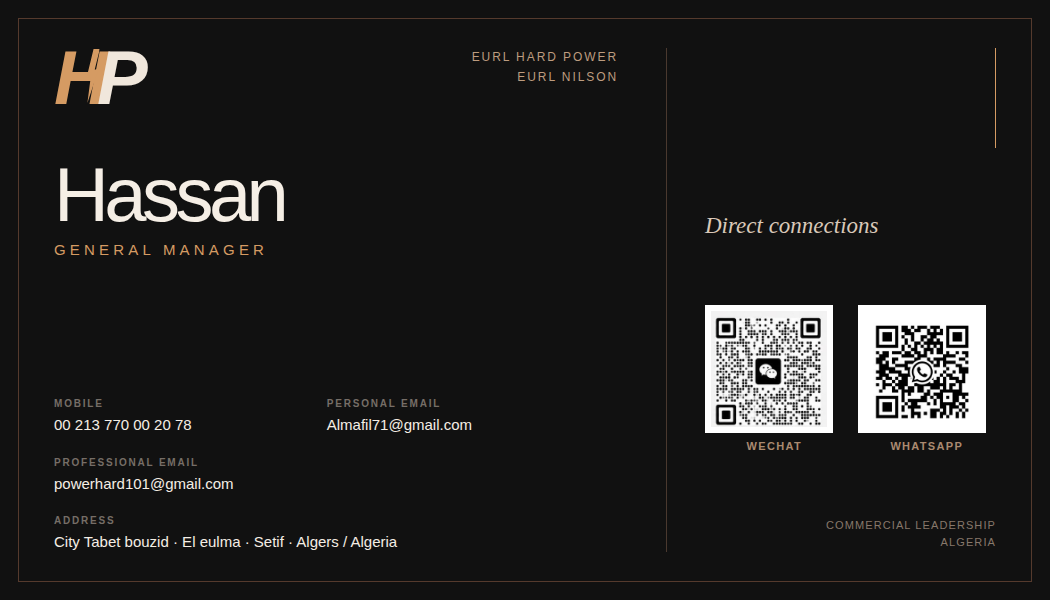
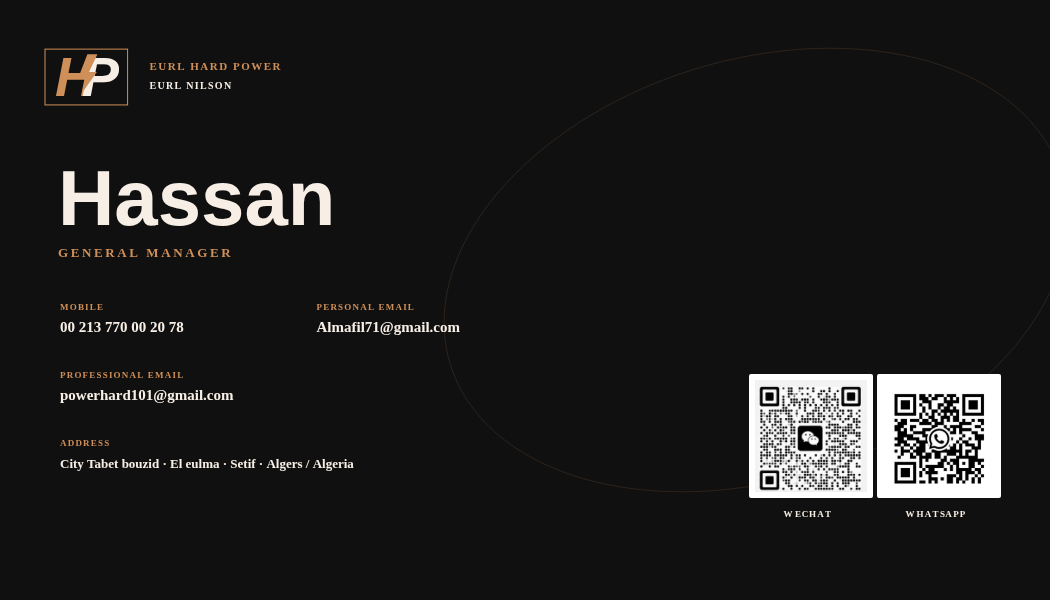
Rebuild first five Omar3 cards with distinct design systems

diff --git a/omar3/index.html b/omar3/index.html
@@ -3,19 +3,18 @@
 <head>
   <meta charset="utf-8">
   <meta name="viewport" content="width=device-width,initial-scale=1">
-  <title>Hassan — Business Card Collection</title>
+  <meta name="theme-color" content="#0b0e12">
+  <title>Hassan — 50 Business Card Directions</title>
   <style>
-    *{box-sizing:border-box}body{margin:0;background:#0b0e12;color:#f4f2ed;font-family:Inter,Arial,sans-serif}.hero{padding:70px max(24px,6vw) 44px;border-bottom:1px solid #272b30}.kicker{color:#c99a3b;font-size:12px;font-weight:800;letter-spacing:.2em;text-transform:uppercase}h1{max-width:800px;margin:13px 0 15px;font:500 clamp(38px,7vw,82px)/.98 Georgia,serif;letter-spacing:-.045em}.intro{max-width:650px;color:#aeb4ba;font-size:17px;line-height:1.6}.grid{display:grid;gap:55px;padding:55px max(24px,6vw) 90px}.concept{max-width:1120px}.meta{display:flex;justify-content:space-between;gap:20px;align-items:end;margin-bottom:16px}.meta h2{margin:0;font:500 27px Georgia,serif}.meta p{margin:5px 0 0;color:#8e959c}.actions{display:flex;gap:9px;flex-wrap:wrap}.button{display:inline-block;padding:11px 16px;border:1px solid #c99a3b;color:#f8e6bd;text-decoration:none;font-size:12px;font-weight:800;letter-spacing:.08em;text-transform:uppercase}.frame{overflow:hidden;border-radius:9px;box-shadow:0 22px 75px #0008;background:#fff}.frame img{display:block;width:100%;height:auto}.pending{padding:50px;border:1px dashed #343a40;color:#777e85;text-align:center}.note{margin-top:14px;color:#777e85;font-size:12px}.badge{color:#71d9a0;font-size:11px;font-weight:800;letter-spacing:.12em;text-transform:uppercase}@media(max-width:650px){.meta{align-items:flex-start;flex-direction:column}.hero{padding-top:45px}.grid{padding-inline:16px}.frame{border-radius:4px}}
+    *{box-sizing:border-box}html{scroll-behavior:smooth}body{margin:0;background:#0b0e12;color:#f4f2ed;font-family:Inter,Arial,sans-serif}.hero{padding:70px max(24px,6vw) 45px;border-bottom:1px solid #272b30}.kicker{color:#c99a3b;font-size:12px;font-weight:800;letter-spacing:.2em;text-transform:uppercase}h1{max-width:970px;margin:13px 0 18px;font:500 clamp(42px,7vw,92px)/.94 Georgia,serif;letter-spacing:-.055em}.intro{max-width:720px;color:#aeb4ba;font-size:17px;line-height:1.6}.toolbar{position:sticky;top:0;z-index:10;padding:14px max(24px,6vw);background:#0b0e12ef;backdrop-filter:blur(18px);border-bottom:1px solid #24282d;display:flex;justify-content:space-between;gap:18px;align-items:center}.count{font-size:12px;color:#8f979f;letter-spacing:.12em;text-transform:uppercase}.jump{display:flex;gap:8px}.jump a{width:34px;height:34px;display:grid;place-items:center;border:1px solid #343a41;border-radius:50%;color:#cbd0d4;text-decoration:none;font-size:11px}.grid{display:grid;grid-template-columns:repeat(2,minmax(0,1fr));gap:56px 32px;padding:56px max(24px,6vw) 100px}.concept{min-width:0}.meta{display:flex;justify-content:space-between;gap:18px;align-items:end;margin-bottom:14px}.meta h2{margin:4px 0 0;font:500 25px Georgia,serif}.badge{color:#71d9a0;font-size:10px;font-weight:800;letter-spacing:.12em;text-transform:uppercase}.actions{display:flex;gap:8px}.button{display:inline-block;padding:9px 12px;border:1px solid #4b5158;color:#eee5d3;text-decoration:none;font-size:10px;font-weight:800;letter-spacing:.08em;text-transform:uppercase}.button.primary{border-color:#c99a3b;color:#f8e1b5}.frame{overflow:hidden;border-radius:8px;box-shadow:0 18px 56px #0009;background:#fff;aspect-ratio:1.75}.frame img{display:block;width:100%;height:100%;object-fit:cover}.note{margin:10px 0 0;color:#6f767d;font-size:11px}@media(max-width:900px){.grid{grid-template-columns:1fr}.toolbar{position:relative}.jump{display:none}}@media(max-width:600px){.hero{padding-top:42px}.grid{padding-inline:14px;gap:42px}.meta{align-items:flex-start;flex-direction:column}.toolbar{padding-inline:18px}}
   </style>
 </head>
 <body>
-  <header class="hero"><div class="kicker">Hard Power · Private selection</div><h1>Five directions.<br>One executive identity.</h1><p class="intro">A curated set of distinct business-card concepts for Hassan, each preserving the supplied information and offering both WeChat and WhatsApp access.</p></header>
-  <main class="grid">
-    <article class="concept"><div class="meta"><div><span class="badge">Concept 01 · Available</span><h2>Quiet Authority</h2><p>Editorial ivory, midnight navy, restrained gold.</p></div><div class="actions"><a class="button" href="downloads/hard-power-card-01.png" download>Download PNG</a><a class="button" href="concept-1.html" target="_blank">Full size</a></div></div><div class="frame"><img src="downloads/hard-power-card-01.png" alt="Quiet Authority business card"></div><p class="note">1050 × 600 px · 3.5 × 2 in at 300 ppi</p></article>
-    <article class="concept"><div class="meta"><div><span class="badge">Concept 02 · Available</span><h2>Obsidian Current</h2><p>Black field, burnished copper, discreet confidence.</p></div><div class="actions"><a class="button" href="downloads/hard-power-card-02.png" download>Download PNG</a><a class="button" href="concept-2.html" target="_blank">Full size</a></div></div><div class="frame"><img src="downloads/hard-power-card-02.png" alt="Obsidian Current business card"></div><p class="note">1050 × 600 px · 3.5 × 2 in at 300 ppi</p></article>
-    <article class="concept"><div class="meta"><div><span class="badge">Concept 03 · Available</span><h2>Electric Grid</h2><p>Technical midnight, signal cyan, engineered precision.</p></div><div class="actions"><a class="button" href="downloads/hard-power-card-03.png" download>Download PNG</a><a class="button" href="concept-3.html" target="_blank">Full size</a></div></div><div class="frame"><img src="downloads/hard-power-card-03.png" alt="Electric Grid business card"></div><p class="note">1050 × 600 px · 3.5 × 2 in at 300 ppi</p></article>
-    <article class="concept"><div class="meta"><div><span class="badge">Concept 04 · Available</span><h2>Editorial Signal</h2><p>Terracotta modernism with an expressive publishing edge.</p></div><div class="actions"><a class="button" href="downloads/hard-power-card-04.png" download>Download PNG</a><a class="button" href="concept-4.html" target="_blank">Full size</a></div></div><div class="frame"><img src="downloads/hard-power-card-04.png" alt="Editorial Signal business card"></div><p class="note">1050 × 600 px · 3.5 × 2 in at 300 ppi</p></article>
-    <article class="concept"><div class="meta"><div><span class="badge">Concept 05 · Available</span><h2>Emerald Reserve</h2><p>Deep green, antique gold, private-banking restraint.</p></div><div class="actions"><a class="button" href="downloads/hard-power-card-05.png" download>Download PNG</a><a class="button" href="concept-5.html" target="_blank">Full size</a></div></div><div class="frame"><img src="downloads/hard-power-card-05.png" alt="Emerald Reserve business card"></div><p class="note">1050 × 600 px · 3.5 × 2 in at 300 ppi</p></article>
-  </main>
+  <header class="hero"><div class="kicker">Hard Power · Private selection</div><h1>Fifty distinct directions.<br>One exact identity.</h1><p class="intro">Every concept preserves the supplied client information and includes both WeChat and WhatsApp QR codes. Select any card to download its full-resolution PNG.</p></header>
+  <nav class="toolbar"><div class="count"><strong>50</strong> original concepts</div><div class="jump"><a href="#card-1">01</a><a href="#card-10">10</a><a href="#card-20">20</a><a href="#card-30">30</a><a href="#card-40">40</a><a href="#card-50">50</a></div></nav>
+  <main class="grid" id="gallery"></main>
+  <script src="available.js"></script>
+  <script src="designs.js"></script>
+  <script src="gallery.js"></script>
 </body>
 </html>

diff --git a/omar3/render.js b/omar3/render.js
@@ -1,0 +1,31 @@
+(function(){
+const W=1050,H=600,info={name:'Hassan',role:'General Manager',companies:['EURL Hard Power','EURL Nilson'],mobile:'00 213 770 00 20 78',personal:'Almafil71@gmail.com',professional:'powerhard101@gmail.com',address:'City Tabet bouzid · El eulma · Setif · Algers / Algeria'};
+const id=Math.max(1,Math.min(50,+(new URLSearchParams(location.search).get('id')||1))),d=window.CARD_DESIGNS[id-1],c=document.getElementById('card'),x=c.getContext('2d');
+const qr1=new Image(),qr2=new Image();qr1.src='assets/wechat-qr.png';qr2.src='assets/whatsapp-qr.png';Promise.all([ready(qr1),ready(qr2)]).then(draw);
+function ready(im){return new Promise(r=>im.complete?r():im.onload=r)}
+function rect(a,b,w,h,col,rad=0){x.fillStyle=col;if(!rad){x.fillRect(a,b,w,h);return}x.beginPath();x.roundRect(a,b,w,h,rad);x.fill()}
+function line(a,b,cx,cy,col,w=1){x.strokeStyle=col;x.lineWidth=w;x.beginPath();x.moveTo(a,b);x.lineTo(cx,cy);x.stroke()}
+function text(s,a,b,size,col=d.ink,font=d.bodyFont,weight=400,align='left',italic=false){x.fillStyle=col;x.font=`${italic?'italic ':''}${weight} ${size}px ${font}`;x.textAlign=align;x.textBaseline='alphabetic';x.fillText(s,a,b)}
+function caps(s,a,b,size=11,col=d.accent,spacing=2,align='left'){x.save();x.fillStyle=col;x.font=`700 ${size}px ${d.bodyFont}`;x.textAlign=align;let chars=s.toUpperCase().split(''),width=chars.reduce((v,ch)=>v+x.measureText(ch).width,0)+spacing*(chars.length-1),p=align==='center'?a-width/2:align==='right'?a-width:a;chars.forEach(ch=>{x.fillText(ch,p,b);p+=x.measureText(ch).width+spacing});x.restore()}
+function logo(a,b,size,mode=0){x.save();if(mode%4===1){x.strokeStyle=d.accent;x.lineWidth=2;x.beginPath();x.arc(a+size*.52,b-size*.25,size*.54,0,Math.PI*2);x.stroke()}if(mode%4===2){x.strokeStyle=d.accent;x.strokeRect(a-10,b-size*.84,size*1.48,size)}text('H',a,b,size,d.accent,'Arial',900,'left',true);text('P',a+size*.48,b,size,d.ink==='white'?'#fff':d.ink,'Arial',900,'left',true);x.fillStyle=d.accent;x.beginPath();x.moveTo(a+size*.58,b-size*.75);x.lineTo(a+size*.76,b-size*.75);x.lineTo(a+size*.61,b-size*.43);x.lineTo(a+size*.75,b-size*.43);x.lineTo(a+size*.48,b-size*.05);x.lineTo(a+size*.56,b-size*.36);x.lineTo(a+size*.43,b-size*.36);x.closePath();x.fill();x.restore()}
+function motifs(){const m=d.motif;x.save();x.globalAlpha=.15;x.strokeStyle=d.accent;x.fillStyle=d.accent;if(m===0){line(0,60,W,60,d.accent,1)}else if(m===1){rect(0,0,230,H,d.accent);rect(250,0,16,H,d.ink)}else if(m===2){for(let a=0;a<W;a+=44)line(a,0,a,H,d.accent,.5);for(let b=0;b<H;b+=44)line(0,b,W,b,d.accent,.5)}else if(m===3){for(let b=20;b<H;b+=18)text('·',b*1.6,b,20,d.accent,'monospace',400)}else if(m===4){x.beginPath();x.arc(W*.76,H*.48,230,0,Math.PI*2);x.stroke();x.beginPath();x.arc(W*.76,H*.48,170,0,Math.PI*2);x.stroke()}else if(m===5){for(let b=70;b<H;b+=82)line(0,b,W,b,d.accent,2)}else if(m===6){x.beginPath();x.arc(85,90,180,0,Math.PI*2);x.fill();x.beginPath();x.arc(W-80,H-60,210,0,Math.PI*2);x.fill()}else if(m===7){x.beginPath();x.ellipse(W*.72,H*.45,320,210,-.3,0,Math.PI*2);x.stroke()}else if(m===8){x.beginPath();x.moveTo(0,400);x.bezierCurveTo(250,260,420,590,690,380);x.bezierCurveTo(850,260,950,310,W,220);x.lineTo(W,H);x.lineTo(0,H);x.fill()}else if(m===9){for(let i=0;i<5;i++){x.strokeRect(30+i*16,30+i*16,W-60-i*32,H-60-i*32)}}else if(m===10){x.setLineDash([10,8]);x.strokeRect(28,28,W-56,H-56)}else if(m===11){for(let i=0;i<14;i++){x.beginPath();x.arc(W*.72,H*.5,22+i*18,0,Math.PI*2);x.stroke()}}else{x.beginPath();x.moveTo(0,H);x.lineTo(W*.52,0);x.lineTo(W*.68,0);x.lineTo(W*.18,H);x.fill()}x.restore()}
+function labelValue(label,value,a,b,width=290){caps(label,a,b,9,d.accent,1.2);let sz=value.length>34?13:15;text(value,a,b+22,sz,d.ink,d.bodyFont,600);}
+function qrPair(a,b,size=118,vertical=false){const gap=vertical?18:16;function one(im,label,px,py){rect(px-6,py-6,size+12,size+12,'#fff',d.radius>40?18:2);x.drawImage(im,px,py,size,size);caps(label,px+size/2,py+size+25,9,d.ink,1,'center')}one(qr1,'WeChat',a,b);one(qr2,'WhatsApp',vertical?a:b? a+size+gap:a+size+gap,vertical?b+size+42:b,size)}
+function standardInfo(a,b,cols=true,scale=1){if(cols){labelValue('Mobile',info.mobile,a,b);labelValue('Personal Email',info.personal,a+285*scale,b);labelValue('Professional Email',info.professional,a,b+68);labelValue('Address',info.address,a,b+136)}else{labelValue('Mobile',info.mobile,a,b);labelValue('Professional Email',info.professional,a,b+64);labelValue('Personal Email',info.personal,a,b+128);labelValue('Address',info.address,a,b+192)}}
+function header(a,b,scale=1,align='left'){logo(a,b+60*scale,62*scale,d.id);let ca=align==='right'?a-10:a+105*scale;caps(info.companies[0],ca,b+31*scale,11,d.accent,1.5,align);caps(info.companies[1],ca,b+52*scale,10,d.ink,1.3,align)}
+function nameBlock(a,b,size=70,align='left'){text(info.name,a,b,size,d.ink,d.nameFont,d.nameFont==='Arial'?700:500,align,d.logo==='script');caps(info.role,a,b+32,13,d.accent,2.6,align)}
+function layout(){
+ if(d.layout===0){rect(0,0,340,H,d.ink);let old=d.ink;d.ink=d.bg;header(45,45,.9);d.ink=old;nameBlock(402,150,72);standardInfo(402,226,true,.95);qrPair(750,414,105);}
+ else if(d.layout===1){header(55,42,.9);nameBlock(58,225,78);standardInfo(60,310,true,.9);qrPair(755,380,112);}
+ else if(d.layout===2){header(55,45,.85);nameBlock(525,160,72,'center');standardInfo(350,245,true,.9);qrPair(390,420,110);}
+ else if(d.layout===3){x.strokeStyle=d.accent;x.lineWidth=2;x.strokeRect(28,28,W-56,H-56);header(70,52,.78);nameBlock(525,170,68,'center');line(240,215,810,215,d.accent,1);standardInfo(95,275,false);qrPair(665,300,122);}
+ else if(d.layout===4){rect(0,0,360,H,d.accent);let old=d.ink,oldAccent=d.accent;d.ink=d.bg;d.accent=d.bg;header(45,50,.85);nameBlock(48,250,66);d.ink=old;d.accent=oldAccent;standardInfo(410,110,false);qrPair(705,374,112);}
+ else if(d.layout===5){header(62,45,.82);nameBlock(70,210,78);standardInfo(72,295,false);qrPair(720,205,130);}
+ else if(d.layout===6){header(50,40,.78);nameBlock(48,190,72);standardInfo(50,275,true,.92);rect(690,42,310,516,d.ink,8);let old=d.ink;d.ink=d.bg;caps(info.companies[0],720,84,10,d.accent,1.3);qrPair(720,210,112);d.ink=old;}
+ else if(d.layout===7){text(info.name,55,178,112,d.ink,d.nameFont,700,'left',true);caps(info.role,62,220,13,d.accent,2.5);header(760,40,.65);standardInfo(55,310,true,.95);qrPair(720,390,112);}
+ else if(d.layout===8){header(42,35,.75);nameBlock(45,170,66);rect(40,225,610,325,d.ink,d.radius||24);let old=d.ink;d.ink=d.bg;standardInfo(72,274,false);d.ink=old;rect(680,45,330,505,d.accent,d.radius||24);old=d.ink;d.ink=d.bg;qrPair(710,206,118);d.ink=old;}
+ else if(d.layout===9){header(55,45,.72);nameBlock(65,225,75);standardInfo(505,95,false);line(460,55,460,545,d.accent,2);qrPair(55,370,120);}
+ else {x.save();x.translate(-30,40);x.rotate(-.08);rect(0,0,1120,145,d.accent);x.restore();header(58,55,.78);nameBlock(60,260,78);standardInfo(60,340,true,.92);qrPair(760,350,110);}
+}
+function draw(){rect(0,0,W,H,d.bg,d.radius>0&&d.layout!==2?Math.min(d.radius,80):0);motifs();layout();document.body.dataset.ready='true'}
+})();

diff --git a/omar3/designs.js b/omar3/designs.js
@@ -1,0 +1,55 @@
+(function () {
+  const rows = [
+    [1,"Ivory Ledger",0,0,"#f3efe6","#071b2f","#b88a31","Georgia","Arial",0,"open","split","classic"],
+    [2,"Obsidian Arc",1,7,"#101010","#f7efe5","#cf8f58","Arial","Georgia",0,"dense","side","italic"],
+    [3,"Cobalt Signal",6,2,"#061426","#f7fbff","#4be2cf","Arial","monospace",0,"open","panel","tech"],
+    [4,"Terracotta Journal",4,12,"#efe5d2","#17312e","#d94b2d","Georgia","Arial",0,"dense","column","editorial"],
+    [5,"Emerald Reserve",3,4,"#073c34","#faf5e9","#d3b267","Georgia","Arial",0,"open","frame","seal"],
+    [6,"Alpine Swiss",0,5,"#f7f5ee","#111111","#ef3f35","Helvetica","Arial",0,"open","grid","wordmark"],
+    [7,"Pearl Circuit",8,2,"#f5f6f4","#20333b","#7c63ff","Arial","monospace",26,"dense","cards","chip"],
+    [8,"Saffron Bauhaus",2,6,"#f1c84b","#17233a","#e94c32","Arial","Georgia",0,"dense","orbit","block"],
+    [9,"Midnight Deco",3,9,"#07111f","#f7eedb","#d4a84e","Georgia","Arial",0,"dense","symmetry","crest"],
+    [10,"Rose Quartz",5,11,"#f2d9d8","#531f38","#bd4d70","Georgia","Arial",34,"open","floating","script"],
+    [11,"Concrete Voltage",4,1,"#c9c7bf","#151515","#ff4e1a","Arial","monospace",0,"dense","blocks","industrial"],
+    [12,"Ocean Current",1,8,"#d9f0ec","#073d4b","#087f8c","Georgia","Arial",80,"open","wave","fluid"],
+    [13,"Ink Stamp",7,10,"#eee8db","#161616","#9d2f24","Georgia","monospace",4,"dense","stamp","print"],
+    [14,"Copper Blueprint",6,3,"#092f45","#e9f5f4","#d58a55","monospace","Arial",0,"dense","diagram","draft"],
+    [15,"Lilac Orbit",2,7,"#e9ddf4","#241b35","#7357c8","Arial","Georgia",999,"open","orbit","soft"],
+    [16,"Crimson Axis",10,12,"#8e1426","#fff6eb","#f1b44a","Arial","Arial",0,"dense","diagonal","kinetic"],
+    [17,"Sandstone Crest",3,0,"#d8c3a4","#34271e","#875f3c","Georgia","Arial",10,"open","crest","heritage"],
+    [18,"Monochrome Grid",0,2,"#ffffff","#050505","#050505","Arial","monospace",0,"dense","grid","strict"],
+    [19,"Azure Ribbon",10,8,"#ecf5ff","#05274d","#147ce5","Arial","Georgia",18,"open","ribbon","dynamic"],
+    [20,"Olive Atelier",5,5,"#dfe1ca","#26301d","#a55b3d","Georgia","Arial",48,"open","organic","craft"],
+    [21,"Carbon Halo",2,4,"#17191c","#f4f5f6","#b9e44c","Arial","monospace",999,"dense","halo","sport"],
+    [22,"Porcelain Frame",3,9,"#faf9f6","#193a52","#8ba9bd","Georgia","Arial",16,"open","frame","ceramic"],
+    [23,"Solar Flare",10,6,"#ff5d29","#24150e","#ffd35a","Arial","Arial",0,"dense","flare","pop"],
+    [24,"Plum Gallery",7,11,"#401a3a","#fff4ee","#dc8da4","Georgia","Arial",4,"open","gallery","art"],
+    [25,"Teal Capsule",8,4,"#e3f1ed","#083f3b","#e86742","Arial","Arial",42,"dense","capsule","friendly"],
+    [26,"Graphite Fold",10,1,"#282a2d","#f4f1ea","#9fa9b5","Arial","Georgia",0,"open","fold","architectural"],
+    [27,"Coral Offset",4,12,"#f7b3a4","#35221d","#e04432","Arial","monospace",0,"dense","offset","poster"],
+    [28,"Royal Index",0,5,"#f4efe7","#252b63","#c29e43","Georgia","Arial",0,"open","index","formal"],
+    [29,"Mist Column",9,0,"#e8edf0","#27323a","#78909c","Arial","Georgia",14,"open","column","calm"],
+    [30,"Vermilion Type",7,6,"#f4eee3","#201b17","#dc321f","Georgia","Arial",0,"dense","type","literary"],
+    [31,"Jade Window",8,4,"#0f6658","#f7f0dd","#ffcd70","Arial","Georgia",30,"open","window","luminous"],
+    [32,"Amber Construct",2,1,"#efae32","#222019","#fff3d0","Arial","monospace",0,"dense","construct","bauhaus"],
+    [33,"Ice Matrix",6,2,"#eaf7fb","#123b52","#21a5c4","monospace","Arial",8,"dense","matrix","precise"],
+    [34,"Burgundy Seal",3,10,"#701d32","#fff8ec","#dda966","Georgia","Arial",999,"open","seal","ceremonial"],
+    [35,"Navy Ellipse",5,7,"#111d48","#f7f2e8","#ee9e84","Georgia","Arial",80,"open","ellipse","cosmopolitan"],
+    [36,"Paper Cut",4,12,"#f1e9d8","#17291f","#659c78","Arial","Georgia",0,"dense","cutout","tactile"],
+    [37,"Electric Lime",10,3,"#c8ff35","#111111","#5c18d8","Arial","monospace",12,"dense","slash","youthful"],
+    [38,"Warm Monolith",9,1,"#b47a5a","#fff9ed","#4a2a22","Georgia","Arial",0,"open","monolith","earthy"],
+    [39,"Violet Prism",10,9,"#24104f","#f9f6ff","#b18cff","Arial","Georgia",6,"dense","prism","digital"],
+    [40,"Silver Rail",9,5,"#d9dde0","#16232c","#597382","Arial","monospace",0,"open","rail","corporate"],
+    [41,"Delft Tile",2,9,"#f8f4e8","#113c7b","#5f8fc4","Georgia","Arial",8,"dense","tile","ornamental"],
+    [42,"Apricot Wave",1,8,"#ffd6b0","#4f2733","#ea6b61","Georgia","Arial",70,"open","wave","warm"],
+    [43,"Forest Line",0,5,"#e7eadb","#17382a","#8f6f3e","Arial","Georgia",0,"open","line","natural"],
+    [44,"Neon Terminal",6,3,"#090b0d","#d9ffe1","#34ff76","monospace","Arial",0,"dense","terminal","cyber"],
+    [45,"Espresso Serif",7,0,"#2f211d","#f3e7d3","#cfaa79","Georgia","Arial",3,"open","type","hospitality"],
+    [46,"Cerulean Steps",4,2,"#cdeaf5","#06324d","#0a82bd","Arial","monospace",0,"dense","steps","structured"],
+    [47,"Charcoal Bloom",5,11,"#303133","#f8f3e9","#db8272","Georgia","Arial",999,"open","bloom","organic"],
+    [48,"Gold Meridian",3,9,"#f5edda","#181818","#b78a2d","Georgia","Arial",0,"dense","meridian","luxury"],
+    [49,"Powder Blue",8,7,"#dce8f2","#263746","#e68578","Arial","Georgia",24,"open","cards","soft-modern"],
+    [50,"White Silence",9,0,"#ffffff","#101820","#a68b5b","Georgia","Arial",0,"open","minimal","ultra-minimal"]
+  ];
+  window.CARD_DESIGNS = rows.map(r => ({id:r[0],name:r[1],layout:r[2],motif:r[3],bg:r[4],ink:r[5],accent:r[6],nameFont:r[7],bodyFont:r[8],radius:r[9],density:r[10],topology:r[11],logo:r[12]}));
+})();

diff --git a/omar3/gallery.js b/omar3/gallery.js
@@ -1,0 +1,9 @@
+(function(){
+  const gallery=document.getElementById('gallery');
+  const available=window.CARD_AVAILABLE||5;
+  document.querySelector('.count strong').textContent=available;
+  gallery.innerHTML=window.CARD_DESIGNS.slice(0,available).map(d=>{
+    const n=String(d.id).padStart(2,'0');
+    return `<article class="concept" id="card-${d.id}"><div class="meta"><div><span class="badge">Concept ${n}</span><h2>${d.name}</h2></div><div class="actions"><a class="button primary" href="downloads/hard-power-card-${n}.png" download>Download PNG</a><a class="button" href="downloads/hard-power-card-${n}.png" target="_blank">Full size</a></div></div><div class="frame"><img loading="lazy" src="downloads/hard-power-card-${n}.png" alt="${d.name} business card"></div><p class="note">1050 × 600 px · 3.5 × 2 in at 300 ppi</p></article>`
+  }).join('');
+})();

diff --git a/omar3/render.html b/omar3/render.html
@@ -1,0 +1,1 @@
+<!doctype html><html><head><meta charset="utf-8"><meta name="viewport" content="width=1050"><title>Hard Power Card</title><style>*{box-sizing:border-box}html,body{margin:0;width:1050px;height:600px;overflow:hidden;background:#fff}canvas{display:block;width:1050px;height:600px}</style></head><body><canvas id="card" width="1050" height="600"></canvas><script src="designs.js"></script><script src="render.js"></script></body></html>

diff --git a/omar3/available.js b/omar3/available.js
@@ -1,0 +1,1 @@
+window.CARD_AVAILABLE = 5;
